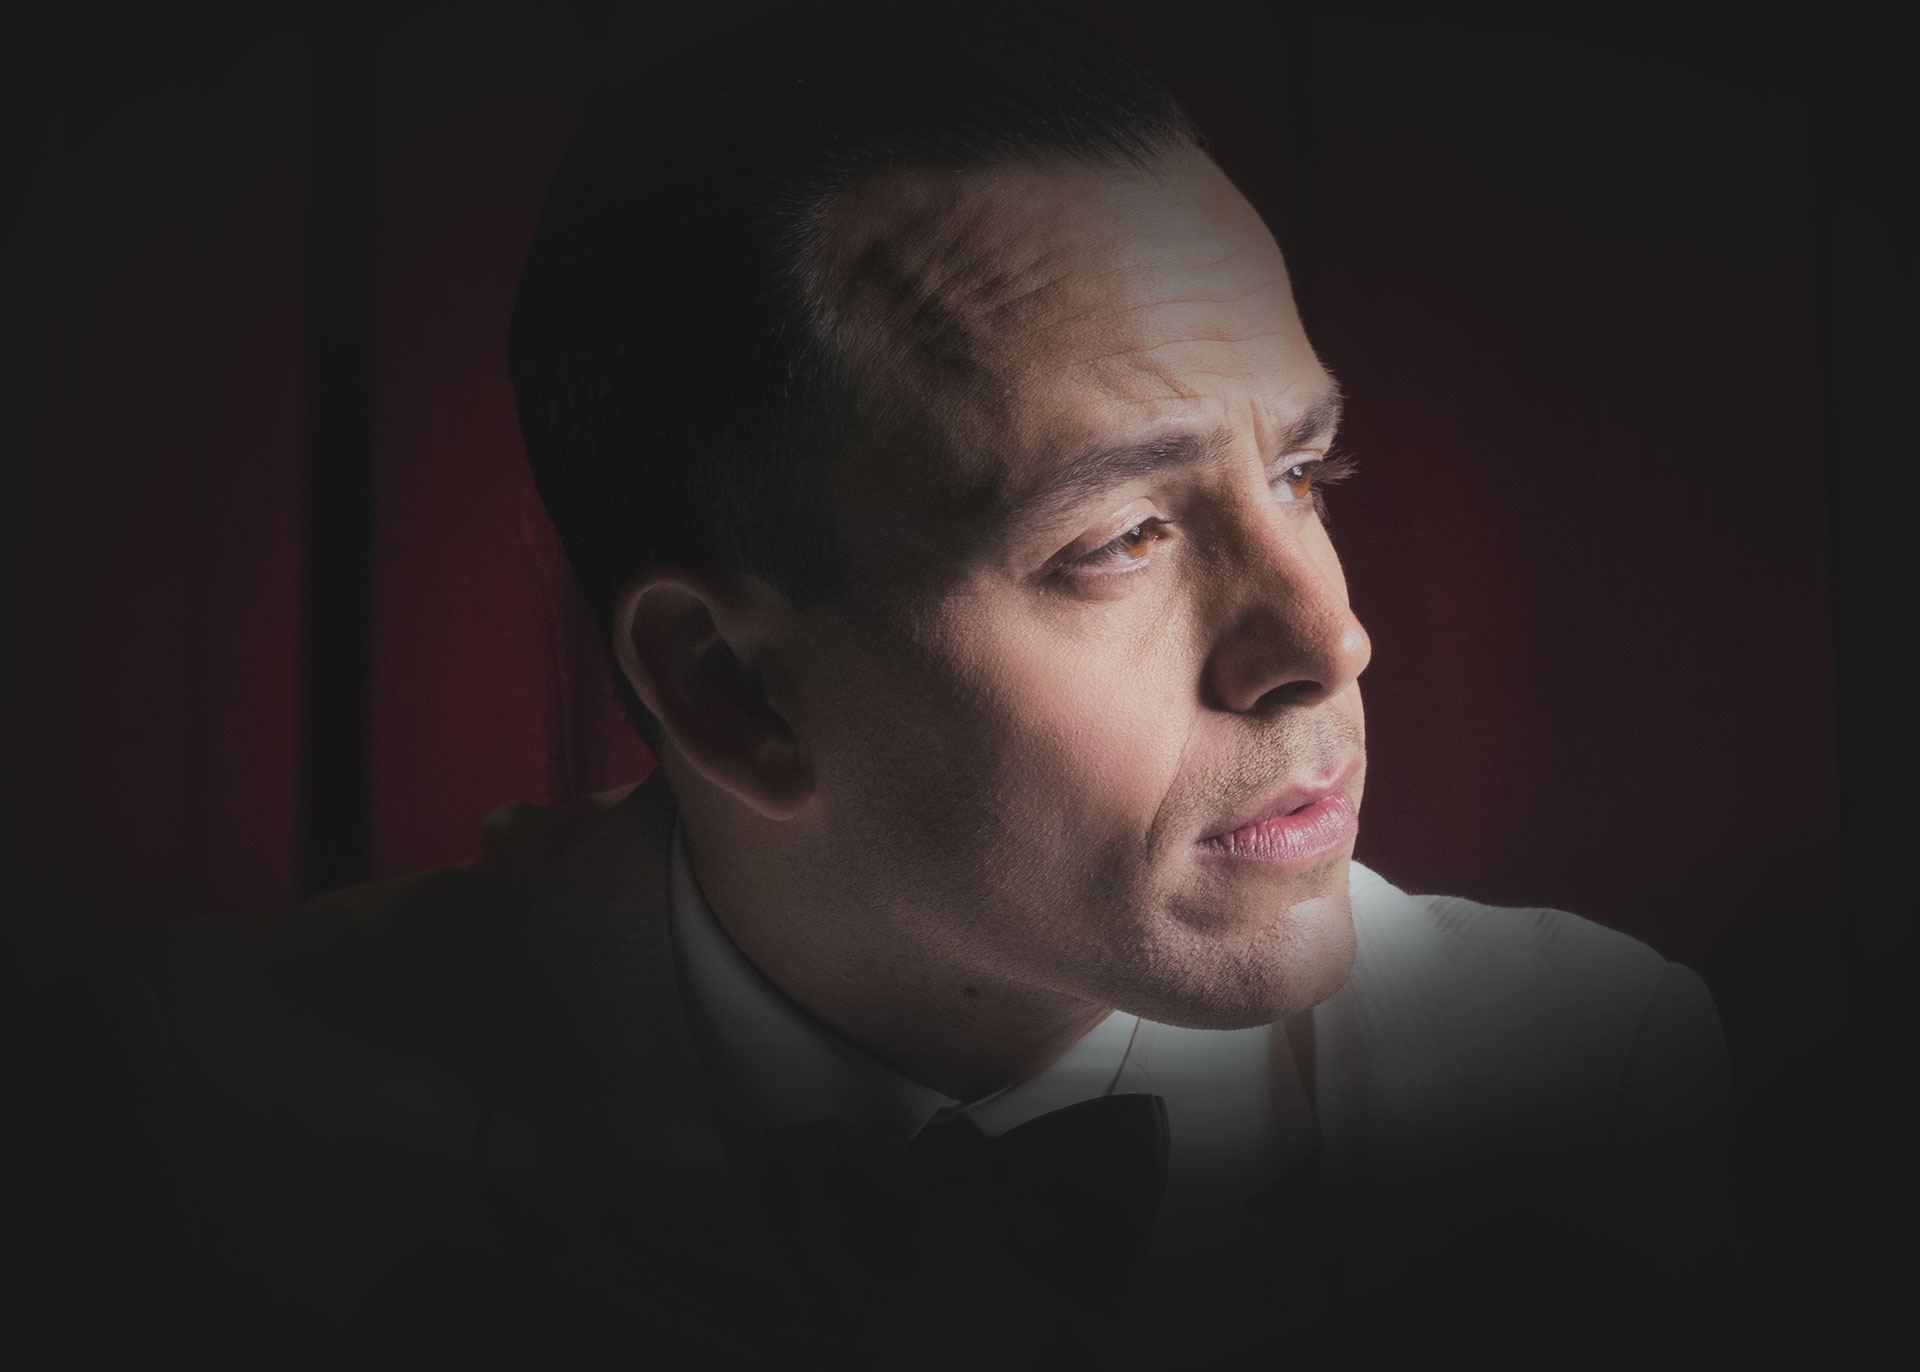
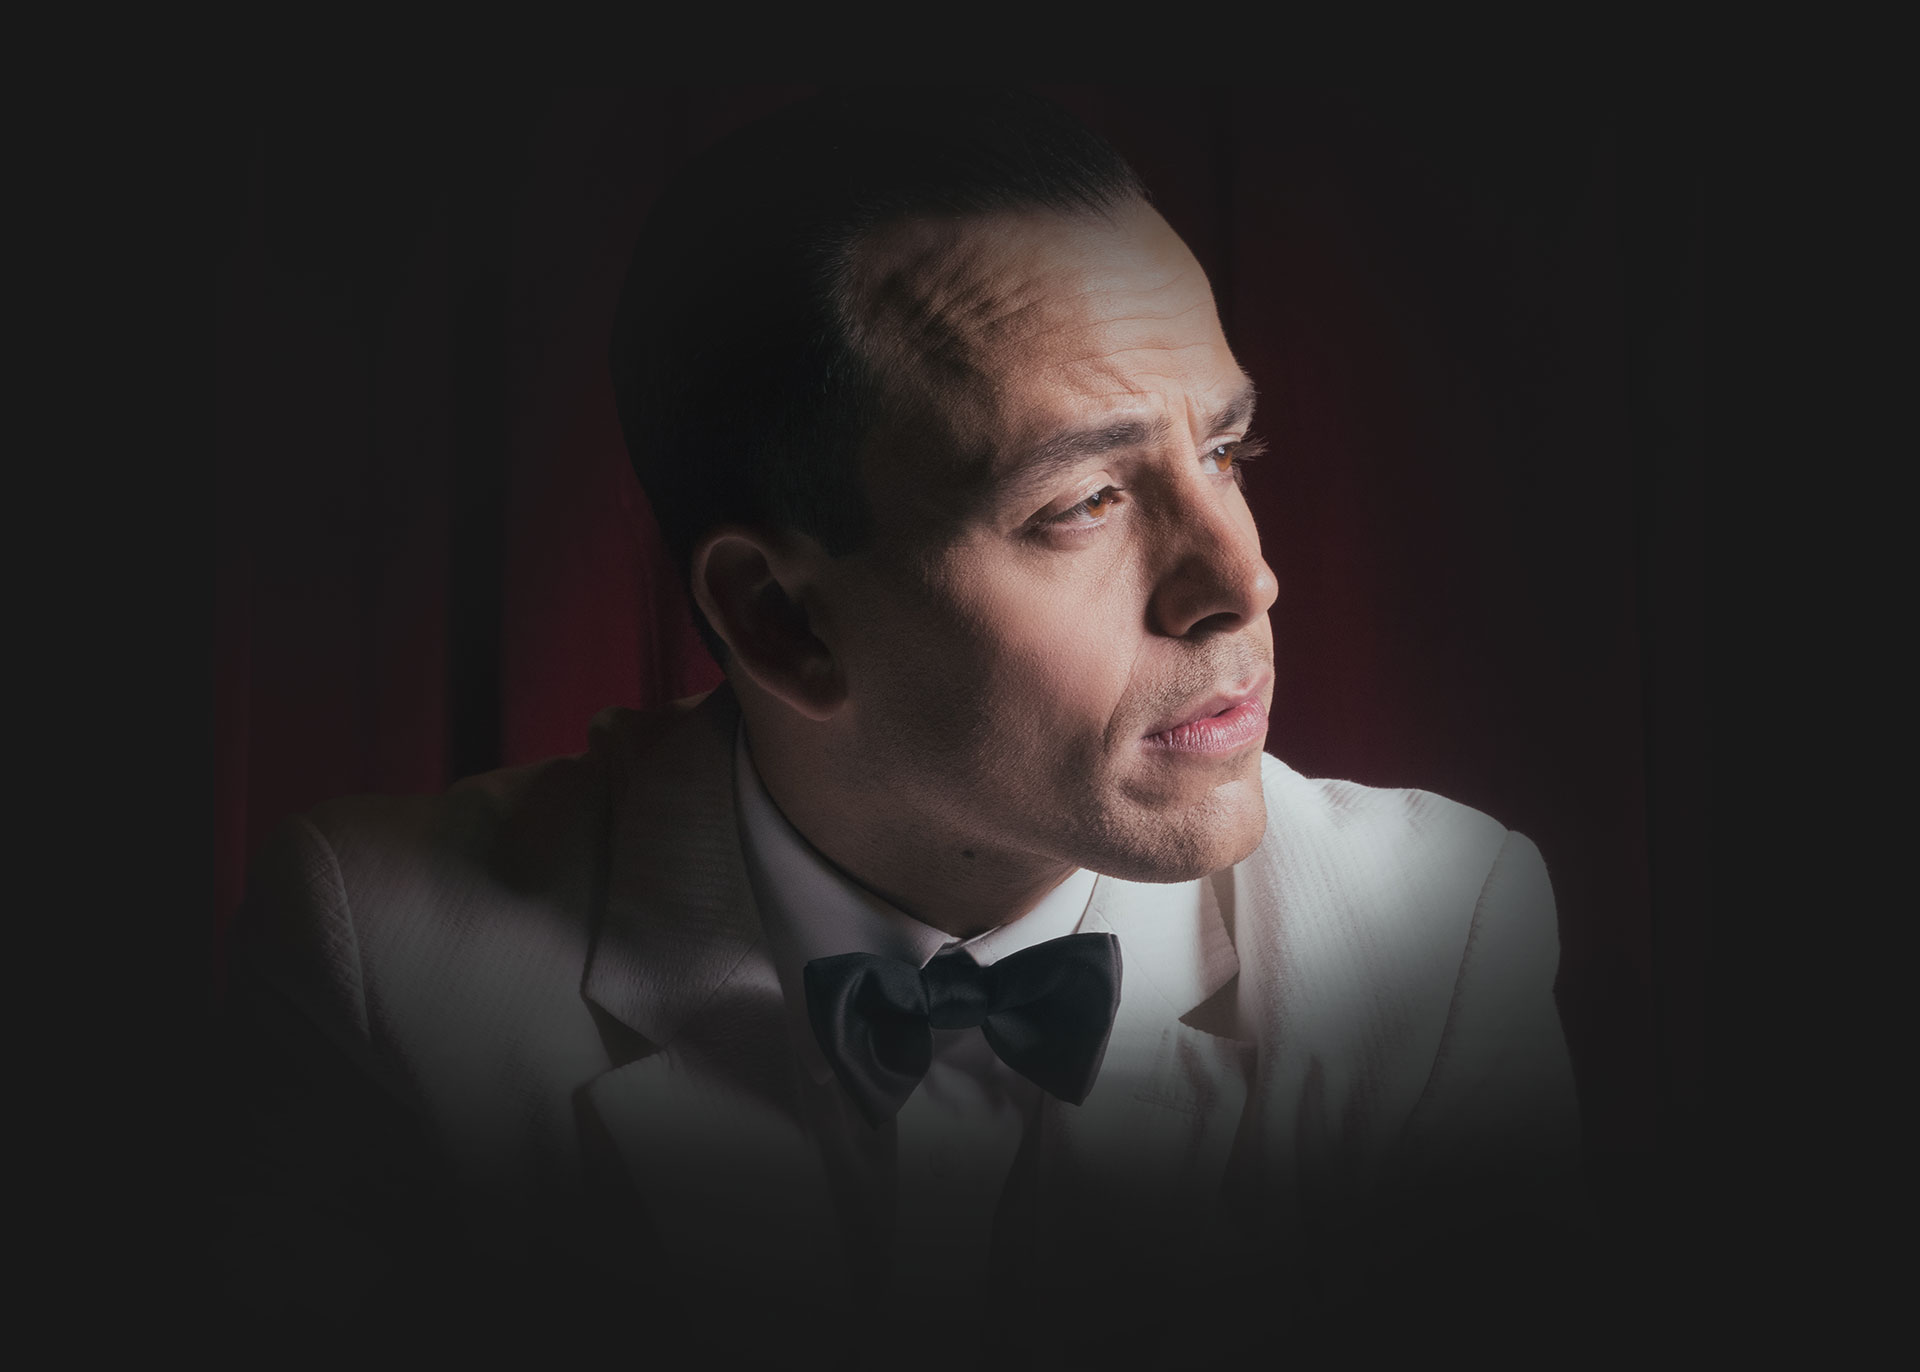
base structure

diff --git a/src/app/modules/main/main.module.ts b/src/app/modules/main/main.module.ts
@@ -8,6 +8,12 @@ import { WidgetsModule } from '@app/_widgets/widgets.module';
 
 import { MainComponent } from './main.component';
 import { HomeComponent } from './home/home.component';
+import { BioComponent } from './bio/bio.component';
+import { ContactComponent } from './contact/contact.component';
+import { DatesComponent } from './dates/dates.component';
+import { GalleryComponent } from './gallery/gallery.component';
+import { MusicComponent } from './music/music.component';
+import { VideoComponent } from './video/video.component';
 
 const routes: Routes = [
   {
@@ -15,8 +21,28 @@ const routes: Routes = [
     component: MainComponent,
     children: [
       {
-        path: 'home',
-        component: HomeComponent
+        path: 'bio',
+        component: BioComponent
+      },
+      {
+        path: 'contact',
+        component: ContactComponent
+      },
+      {
+        path: 'dates',
+        component: DatesComponent
+      },
+      {
+        path: 'gallery',
+        component: GalleryComponent
+      },
+      {
+        path: 'music',
+        component: MusicComponent
+      },
+      {
+        path: 'video',
+        component: VideoComponent
       }
     ]
   },
@@ -25,6 +51,13 @@ const routes: Routes = [
 
 @NgModule({
   declarations: [
+    BioComponent,
+    ContactComponent,
+    DatesComponent,
+    GalleryComponent,
+    HomeComponent,
+    MusicComponent,
+    VideoComponent,
     MainComponent
   ],
   imports: [

diff --git a/src/app/modules/main/main.component.ts b/src/app/modules/main/main.component.ts
@@ -1,6 +1,7 @@
 import { Component, OnInit } from '@angular/core';
 import { PlayerFile, PlayerTheme, PlayerConfig } from 'gs-player';
 import { AudioService } from '@app/services/audio.service';
+import { Router, NavigationEnd } from '@angular/router';
 
 @Component({
   selector: 'app-main',
@@ -8,6 +9,9 @@ import { AudioService } from '@app/services/audio.service';
   styleUrls: ['./main.component.sass']
 })
 export class MainComponent implements OnInit {
+  public coverImage: string;
+
+  /* player variables */
   public files: Array<PlayerFile>;
   public playerTheme: PlayerTheme = {
     primary: '#fcf9f8',
@@ -18,12 +22,31 @@ export class MainComponent implements OnInit {
   };
 
   constructor(
-    private audioService: AudioService
+    private audioService: AudioService,
+    private router: Router
   ) { }
 
   ngOnInit() {
     this.audioService.getFiles().subscribe(files => {
       this.files = files;
     });
+    this.subscribeToNavigationEnd();
+  }
+
+  private subscribeToNavigationEnd() {
+    this.setCoverImage(this.router.url.split('/').reverse()[0]);
+    this.router.events.subscribe(event => {
+      if (event instanceof NavigationEnd) {
+        this.setCoverImage(event.url.split('/').reverse()[0]);
+      }
+    });
+  }
+
+  private setCoverImage(view: string) {
+    if (view === '') {
+      view = 'home';
+    }
+
+    this.coverImage = `url(./assets/cover/${view}.jpg)`;
   }
 }

diff --git a/src/app/_widgets/navigation/navigation.component.ts b/src/app/_widgets/navigation/navigation.component.ts
@@ -2,6 +2,7 @@ import { Component, OnInit } from '@angular/core';
 import { Router, NavigationEnd } from '@angular/router';
 
 import { NAVIGATION } from '@app/_constants';
+import { TranslateService } from '@ngx-translate/core';
 
 @Component({
   selector: 'app-navigation',
@@ -14,6 +15,7 @@ export class NavigationComponent implements OnInit {
   public activeUrl: string;
 
   constructor(
+    private translateService: TranslateService,
     private router: Router
   ) {}
 
@@ -28,5 +30,18 @@ export class NavigationComponent implements OnInit {
 
   public onHideMenu() {
     this.showMenu = false;
+  }
+
+  public toggleLanguage() {
+    let userLanguage = window.localStorage.getItem('userLanguage');
+
+    if (userLanguage === 'en') {
+      userLanguage = 'es';
+    } else {
+      userLanguage = 'en';
+    }
+
+    this.translateService.use(userLanguage);
+    window.localStorage.setItem('userLanguage', userLanguage);
   }
 }

diff --git a/src/app/_widgets/footer/footer.component.html b/src/app/_widgets/footer/footer.component.html
@@ -56,12 +56,12 @@
 
 <ng-template #newsLetterFormTemplate>
   <form class="newsletter" [formGroup]="newsLetterForm" (ngSubmit)="submitNewsLetterForm()">
-    <input type="text" [placeholder]="'Email Address'" formControlName="email">
+    <input type="text" [placeholder]="'FORM.EMAIL' | translate" formControlName="email">
     <small class="text-danger" *ngIf="validateEmailField()">
-      {{ 'PROVIDE_VALID_EMAIL_ADDRESS' | translate }}
+      {{ 'FORM.EMAIL_ERROR' | translate }}
     </small>
     <button type="submit">
-      {{ 'SIGN_UP' | translate }}
+      {{ 'FORM.SIGN_UP' | translate }}
     </button>
   </form>
 </ng-template>

diff --git a/src/app/_widgets/navigation/navigation.component.html b/src/app/_widgets/navigation/navigation.component.html
@@ -1,13 +1,15 @@
 <section class="navigation">
   <h1>Gian <span>Faraone</span></h1>
-  <!-- <nav class="navbar" [style.display]="showMenu ? 'block' : ''">
+  <nav class="navbar" [style.display]="showMenu ? 'block' : ''">
     <a *ngFor="let link of navigation"
       class="navigation-link"
       [class.activeLink]="link.url === activeUrl"
       [routerLink]="link.url"
-      (click)="onHideMenu()"
-    >
+      (click)="onHideMenu()">
       {{ link.text | translate }}
     </a>
-  </nav> -->
+  <button (click)="toggleLanguage()" class="current-lang">
+    {{ 'CHANGE_LANG' | translate }}
+  </button>
+  </nav>
 </section>

diff --git a/src/app/_widgets/footer/footer.component.sass b/src/app/_widgets/footer/footer.component.sass
@@ -82,11 +82,11 @@ footer
       button
         cursor: pointer
         transition: $transition
-        background-color: $gold
+        background-color: $darkGold
         color: $white
 
         &:hover
-          background-color: darken($gold, 5)
+          background-color: darken($darkGold, 5)
 
     @media screen and (max-width: $mobile)
       height: unset

diff --git a/src/app/app.component.ts b/src/app/app.component.ts
@@ -11,6 +11,8 @@ export class AppComponent implements OnInit {
 
   ngOnInit() {
     const userLanguage = window.localStorage.getItem('userLanguage') || 'en';
+    window.localStorage.setItem('userLanguage', userLanguage);
+
     this.translate.setDefaultLang(userLanguage);
     this.translate.use(userLanguage);
   }

diff --git a/src/app/modules/main/main.component.sass b/src/app/modules/main/main.component.sass
@@ -2,10 +2,9 @@
 
 .view
   background-color: $black
-  background-position: 50% 30%
   background-repeat: no-repeat
   background-image: url('../../../assets/cover/home.jpg')
-  background-size: 60%
+  background-size: 100%
 
   @media screen and ( max-width: $mobile)
     background-size: 140%

diff --git a/src/app/modules/main/home/home.component.ts b/src/app/modules/main/home/home.component.ts
@@ -1,7 +1,4 @@
-import { Component, OnInit } from '@angular/core';
-
-import { PlayerFile, PlayerTheme, PlayerConfig } from 'gs-player';
-import { AudioService } from '@app/services/audio.service';
+import { Component } from '@angular/core';
 
 @Component({
   selector: 'app-home',

diff --git a/src/app/_widgets/navigation/navigation.component.sass b/src/app/_widgets/navigation/navigation.component.sass
@@ -37,3 +37,14 @@
     
     a:hover
       opacity: .75
+
+    .current-lang
+      margin-left: 1rem
+      cursor: pointer
+      font-weight: bold
+      border: none
+      background: none
+      outline: none
+      color: $gold
+      a:hover
+        opacity: .75

diff --git a/src/app/modules/main/contact/contact.component.ts b/src/app/modules/main/contact/contact.component.ts
@@ -1,0 +1,11 @@
+import { Component } from '@angular/core';
+
+@Component({
+  selector: 'app-contact',
+  templateUrl: './contact.component.html',
+  styleUrls: ['./contact.component.sass']
+})
+export class ContactComponent {
+
+
+}

diff --git a/src/app/modules/main/gallery/gallery.component.ts b/src/app/modules/main/gallery/gallery.component.ts
@@ -1,0 +1,11 @@
+import { Component } from '@angular/core';
+
+@Component({
+  selector: 'app-gallery',
+  templateUrl: './gallery.component.html',
+  styleUrls: ['./gallery.component.sass']
+})
+export class GalleryComponent {
+
+
+}
